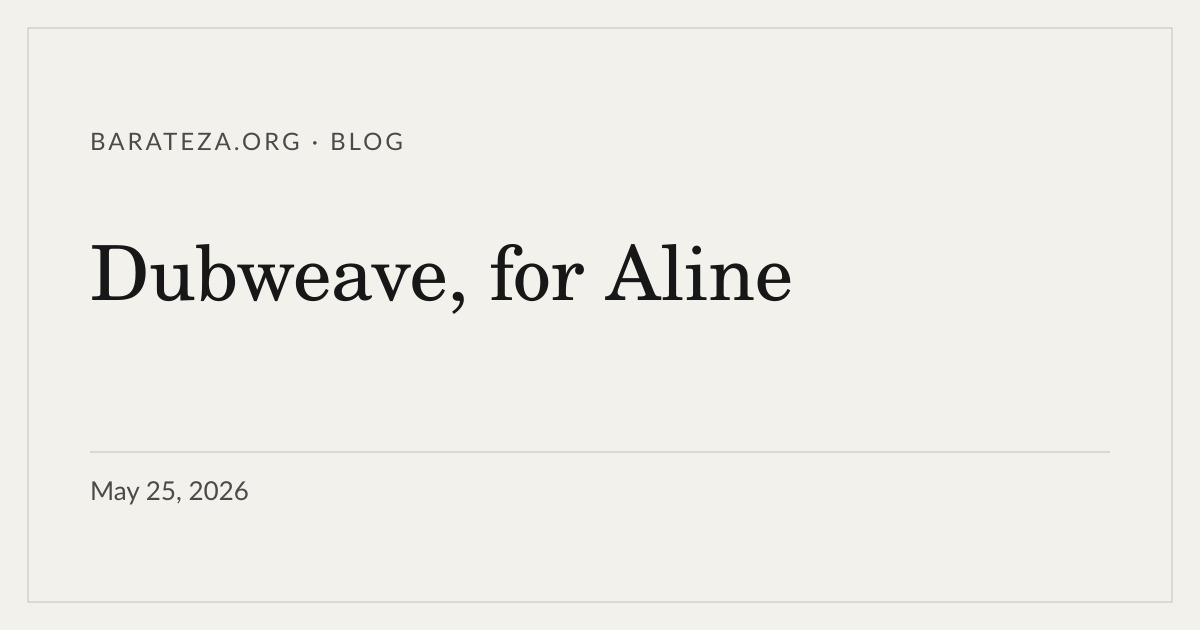
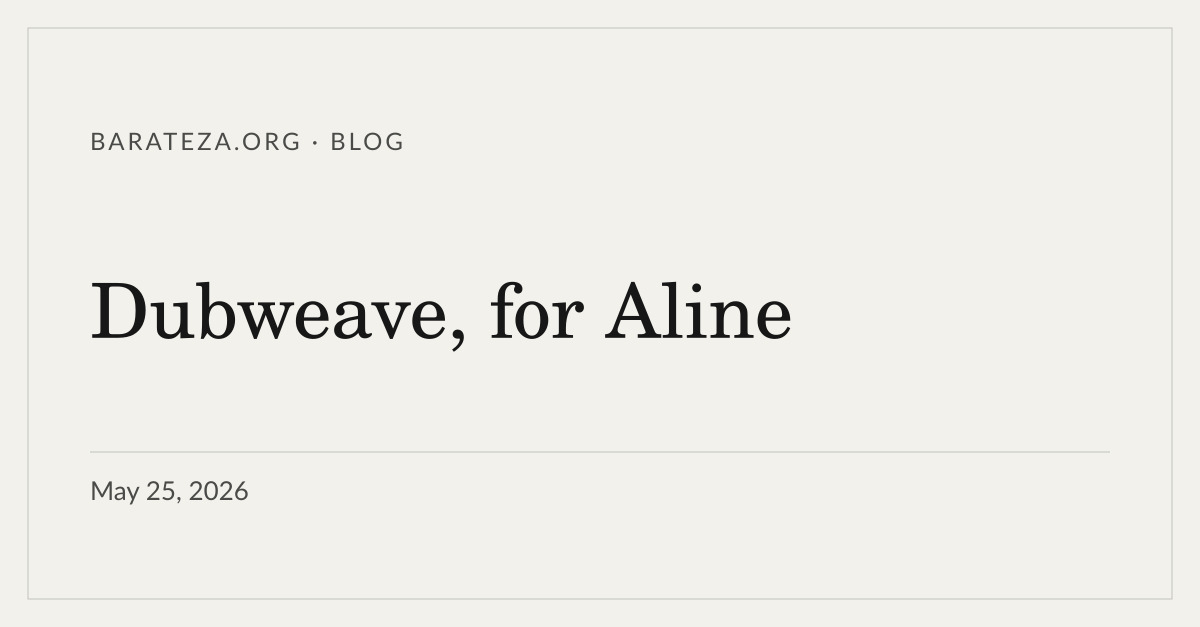
fix(og): 1200x627 cards so LinkedIn shows a large preview (#14)
LinkedIn downgrades a shared link to its 160px thumbnail when the image ratio
is under 1.91:1 — the tell is the media.licdn.com URL ending in
articleshare-shrink_160 and a 160x84 result. The cards were 1200x630
(1.9048:1), just under the line, which is why Facebook looked fine while
LinkedIn served a smudge. They are now 1200x627 (1.9136:1), the size LinkedIn
documents.

Two follow-ons from the same pass:

- Three-line titles rode up into the kicker, so the post card now shrinks the
  type to 62px and centres the block between the kicker and the rule.
- The MCP post points at its generated card: its 2528x1696 hero is 1.49:1 and
  would have been downgraded the same way. The hero stays in the post body.

diff --git a/README.md b/README.md
@@ -27,7 +27,7 @@ npm run og           # re-render the social cards (see below)
 ### Social cards
 
 `public/og-preview.jpg` is the site-wide `og:image`, and posts without their own
-`seo.image` get a card under `src/assets/images/og/`. Both are 1200×630 and
+`seo.image` get a card under `src/assets/images/og/`. Both are 1200×627 (1.91:1, the ratio LinkedIn wants for a large card) and
 generated, not hand-made, because LinkedIn renders a link card at roughly 400px
 wide — type has to survive a 3× downscale, so the layout is text-first and
 deliberately large:

diff --git a/src/content/blog/kcs-search-mcp.md b/src/content/blog/kcs-search-mcp.md
@@ -13,7 +13,7 @@ seo:
   title: Building an internal AI assistant for support engineers with MCP
   description: A practical look at turning an internal Kubernetes search stack into MCP tools for knowledge base, ticket, and docs lookup.
   image:
-    src: '../../assets/images/hero-blog-mcp-plesk.webp'
+    src: '../../assets/images/og/kcs-search-mcp.jpg'
     alt: Building an internal AI assistant for support engineers with MCP
 ---
 
